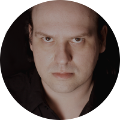
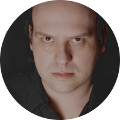
About section layout

diff --git a/_includes/about.html b/_includes/about.html
@@ -1,8 +1,12 @@
 <section id="about" class="about">
-  <div class="about-temp">
-  <h1>Mein Name ist Sascha Mersch,<br /> ich bin Webdesigner in Berlin</h1>
-  <p>Lorem ipsum dolor sit amet, consectetur adipisicing elit, sed do eiusmod tempor incididunt ut labore et dolore magna aliqua. Ut enim ad minim veniam, quis nostrud exercitation ullamco laboris nisi ut aliquip ex ea commodo consequat. Duis aute irure dolor in reprehenderit in voluptate velit esse cillum dolore eu fugiat nulla pariatur. Excepteur sint occaecat cupidatat non proident, sunt in culpa qui officia deserunt mollit anim id est laborum.</p>
-  <p>Lorem ipsum dolor sit amet, consectetur adipisicing elit, sed do eiusmod tempor incididunt ut labore et dolore magna aliqua. Ut enim ad minim veniam, quis nostrud exercitation ullamco laboris nisi ut aliquip ex ea commodo consequat. Duis aute irure dolor in reprehenderit in voluptate velit esse cillum dolore eu fugiat nulla pariatur. Excepteur sint occaecat cupidatat non proident, sunt in culpa qui officia deserunt mollit anim id est laborum.</p>
-  </div>
+  <header>
+    <img src="img/avatar-bw.png" alt="Sascha Mersch"/>
+    <h1>Mein Name ist Sascha Mersch,<br />ich bin Webdesigner in Berlin</h1>
+  </header>
+  <article>
+    <p>Lorem ipsum dolor sit amet, consectetur adipisicing elit, sed do eiusmod tempor incididunt ut labore et dolore magna aliqua. Ut enim ad minim veniam, quis nostrud exercitation ullamco laboris nisi ut aliquip ex ea commodo consequat.</p>
+    <p>Duis aute irure dolor in reprehenderit in voluptate velit esse cillum dolore eu fugiat nulla pariatur. Excepteur sint occaecat cupidatat non proident, sunt in culpa qui officia deserunt.</p>
+    <p>Lorem ipsum dolor sit amet, consectetur adipisicing elit, sed do eiusmod tempor incididunt ut labore et dolore magna aliqua. Ut enim ad minim veniam, quis nostrud exercitation ullamco laboris nisi ut aliquip ex ea commodo consequat.</p>
+  </article>
   {% include clients.html %}
 </section>

diff --git a/css/main.css b/css/main.css
@@ -842,6 +842,7 @@ nav.main-nav::after {
   .client-info .client-name {
     display: block;
     margin-top: 10px;
+    line-height: 0.25;
     letter-spacing: 1px; }
   .client-info .client-company {
     font-size: 60%;
@@ -1034,20 +1035,23 @@ figure {
 
 .about {
   background: #22303a;
-  min-height: auto;
-  padding: 40px 0 0; }
-
-.about-temp {
-  margin: 0 auto 120px;
-  max-width: 500px; }
-  .about-temp p {
-    text-align: left; }
-
-header {
   padding: 60px 0 0; }
+  .about header {
+    text-align: center; }
+    .about header img {
+      max-width: 74px; }
+    .about header h1 {
+      margin: 0.35em 0 0.75em; }
+      .about header h1::after {
+        margin: 20px auto 0; }
+  .about article {
+    max-width: 460px;
+    margin: 0 auto 120px; }
 
 .contact {
   background: #22303a; }
+  .contact header {
+    padding: 60px 0 0; }
 
 .contact-form {
   max-width: 500px;

diff --git a/_sass/3-layout/_about.sass b/_sass/3-layout/_about.sass
@@ -1,12 +1,19 @@
 .about
   background: $bg-lighter
-  min-height: auto
-  padding: 40px 0 0
+  padding: 60px 0 0
 
-  // Temporary!
+  header
+    text-align: center
 
-.about-temp
-  margin: 0 auto 120px
-  max-width: 500px
-  p
-    text-align: left
+    img
+      max-width: 74px
+
+    h1
+      margin: 0.35em 0 0.75em
+
+      &::after
+        margin: 20px auto 0
+
+  article
+    max-width: 460px
+    margin: 0 auto 120px

diff --git a/_sass/3-layout/_contact.sass b/_sass/3-layout/_contact.sass
@@ -1,8 +1,8 @@
-header
-  padding: 60px 0 0
-
 .contact
   background: $bg-lighter
+
+  header
+    padding: 60px 0 0
 
 .contact-form
   max-width: 500px

diff --git a/_sass/2-modules/_clients.sass b/_sass/2-modules/_clients.sass
@@ -26,6 +26,7 @@
   .client-name
     display: block
     margin-top: 10px
+    line-height: 0.25
     @extend .small-bold
     letter-spacing: 1px
 
